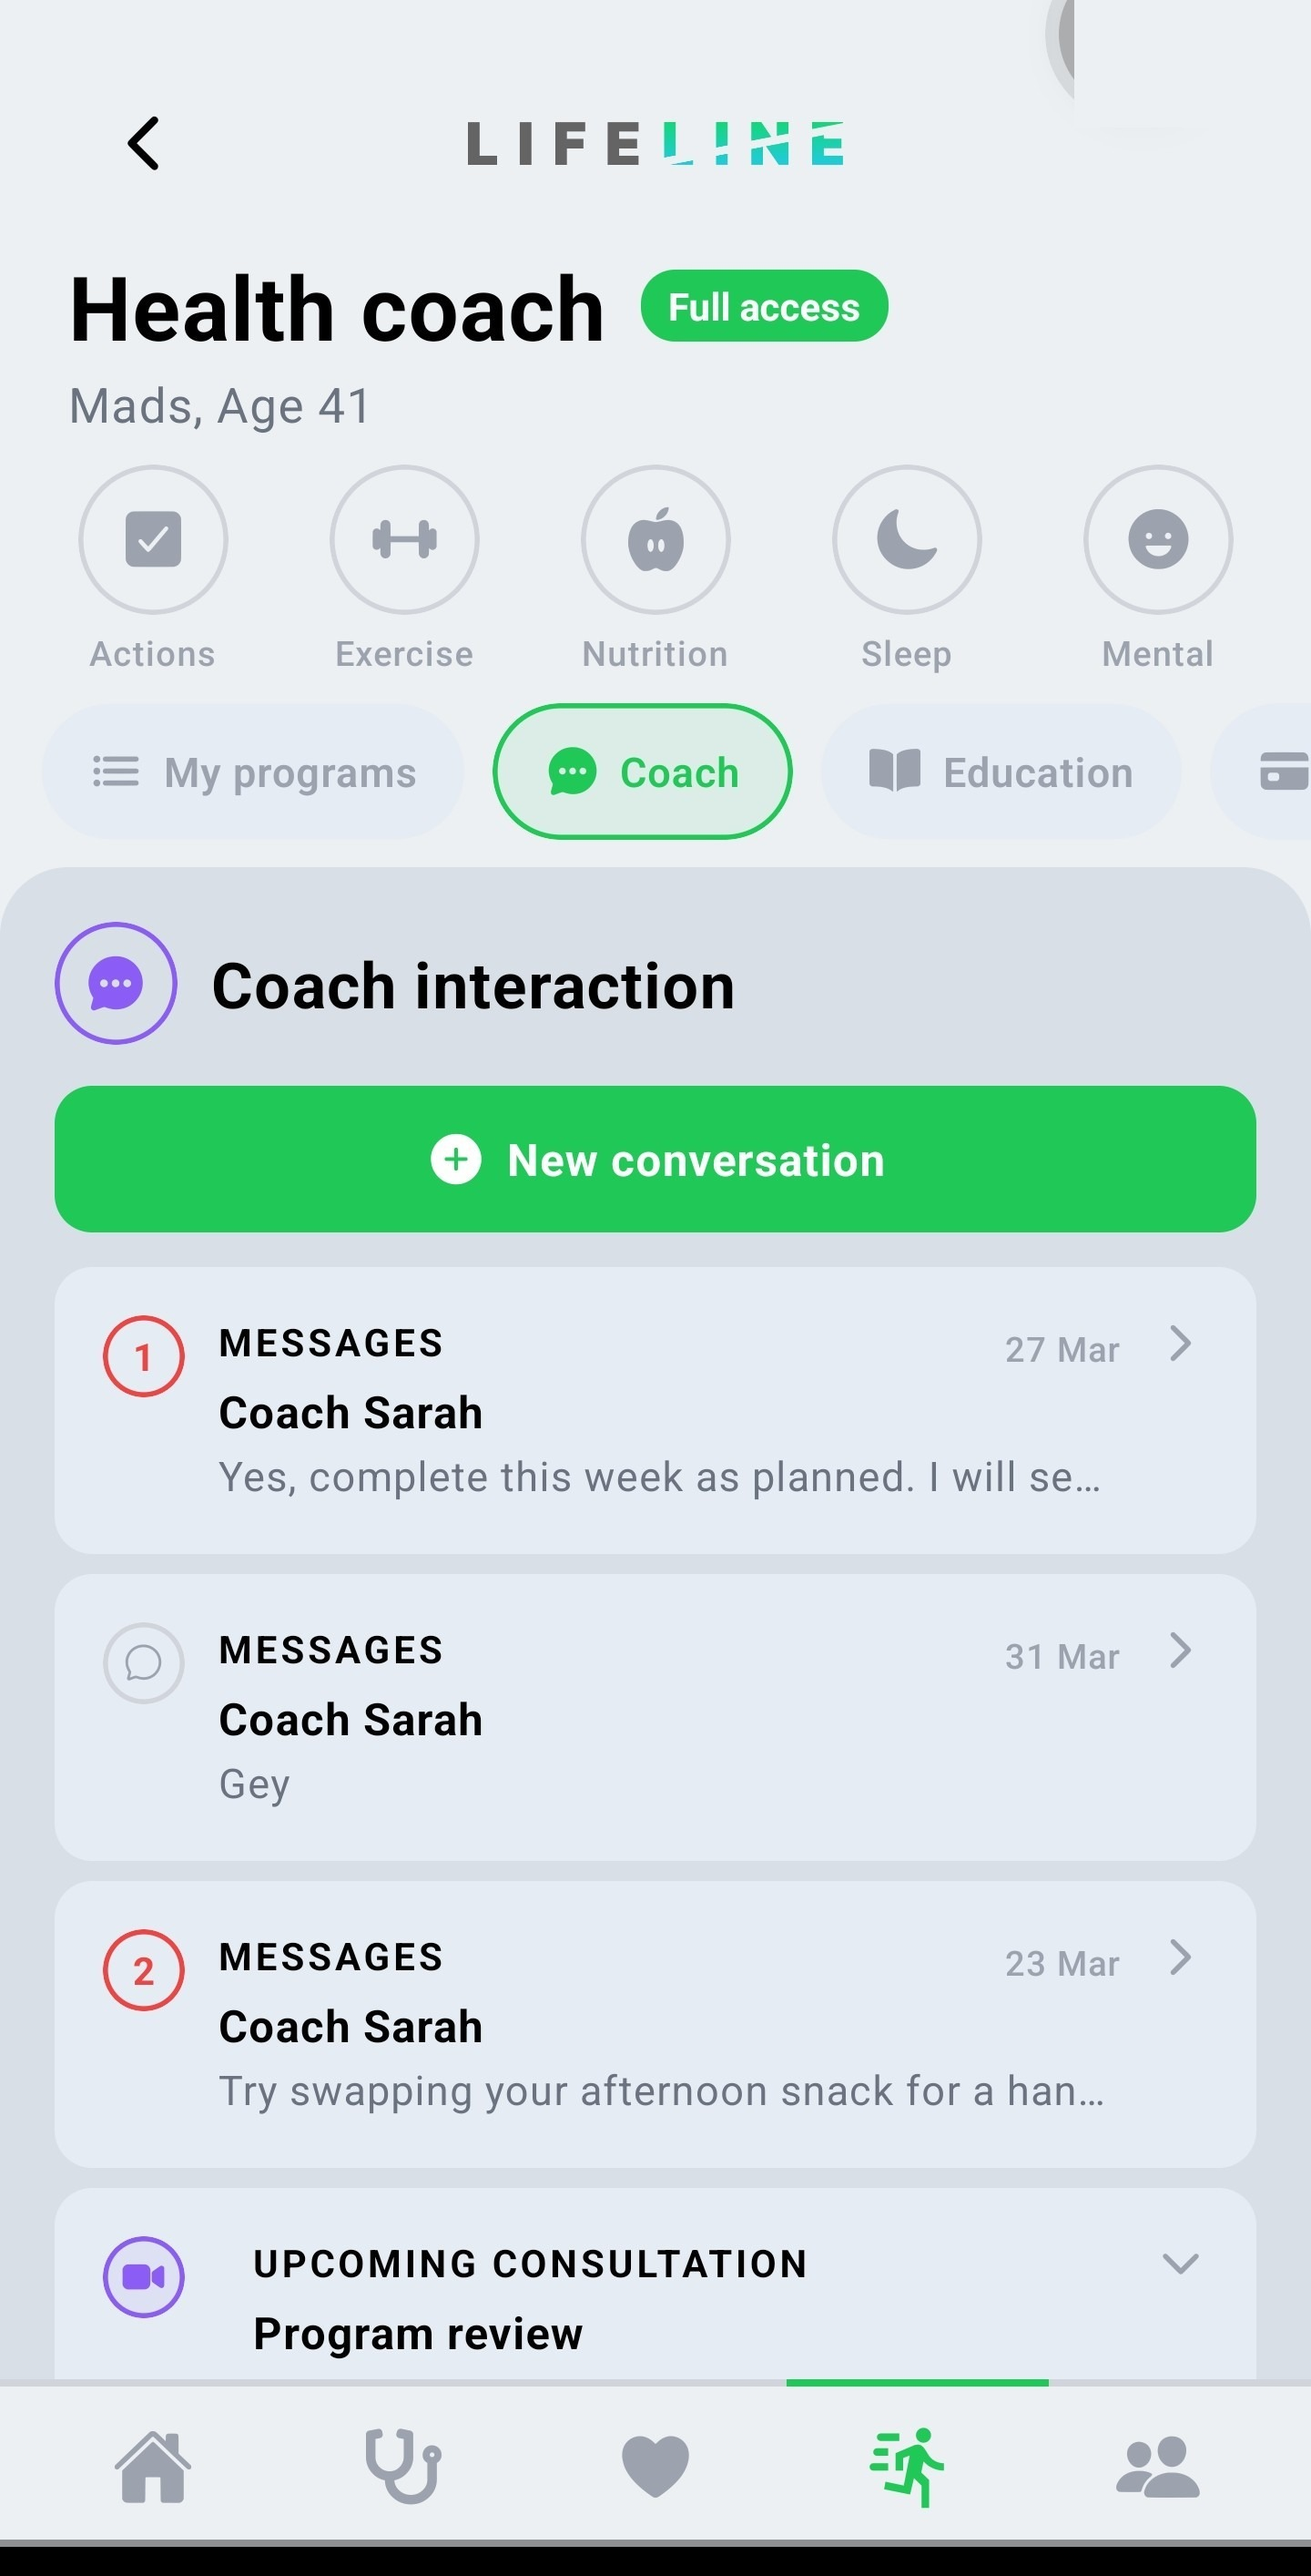
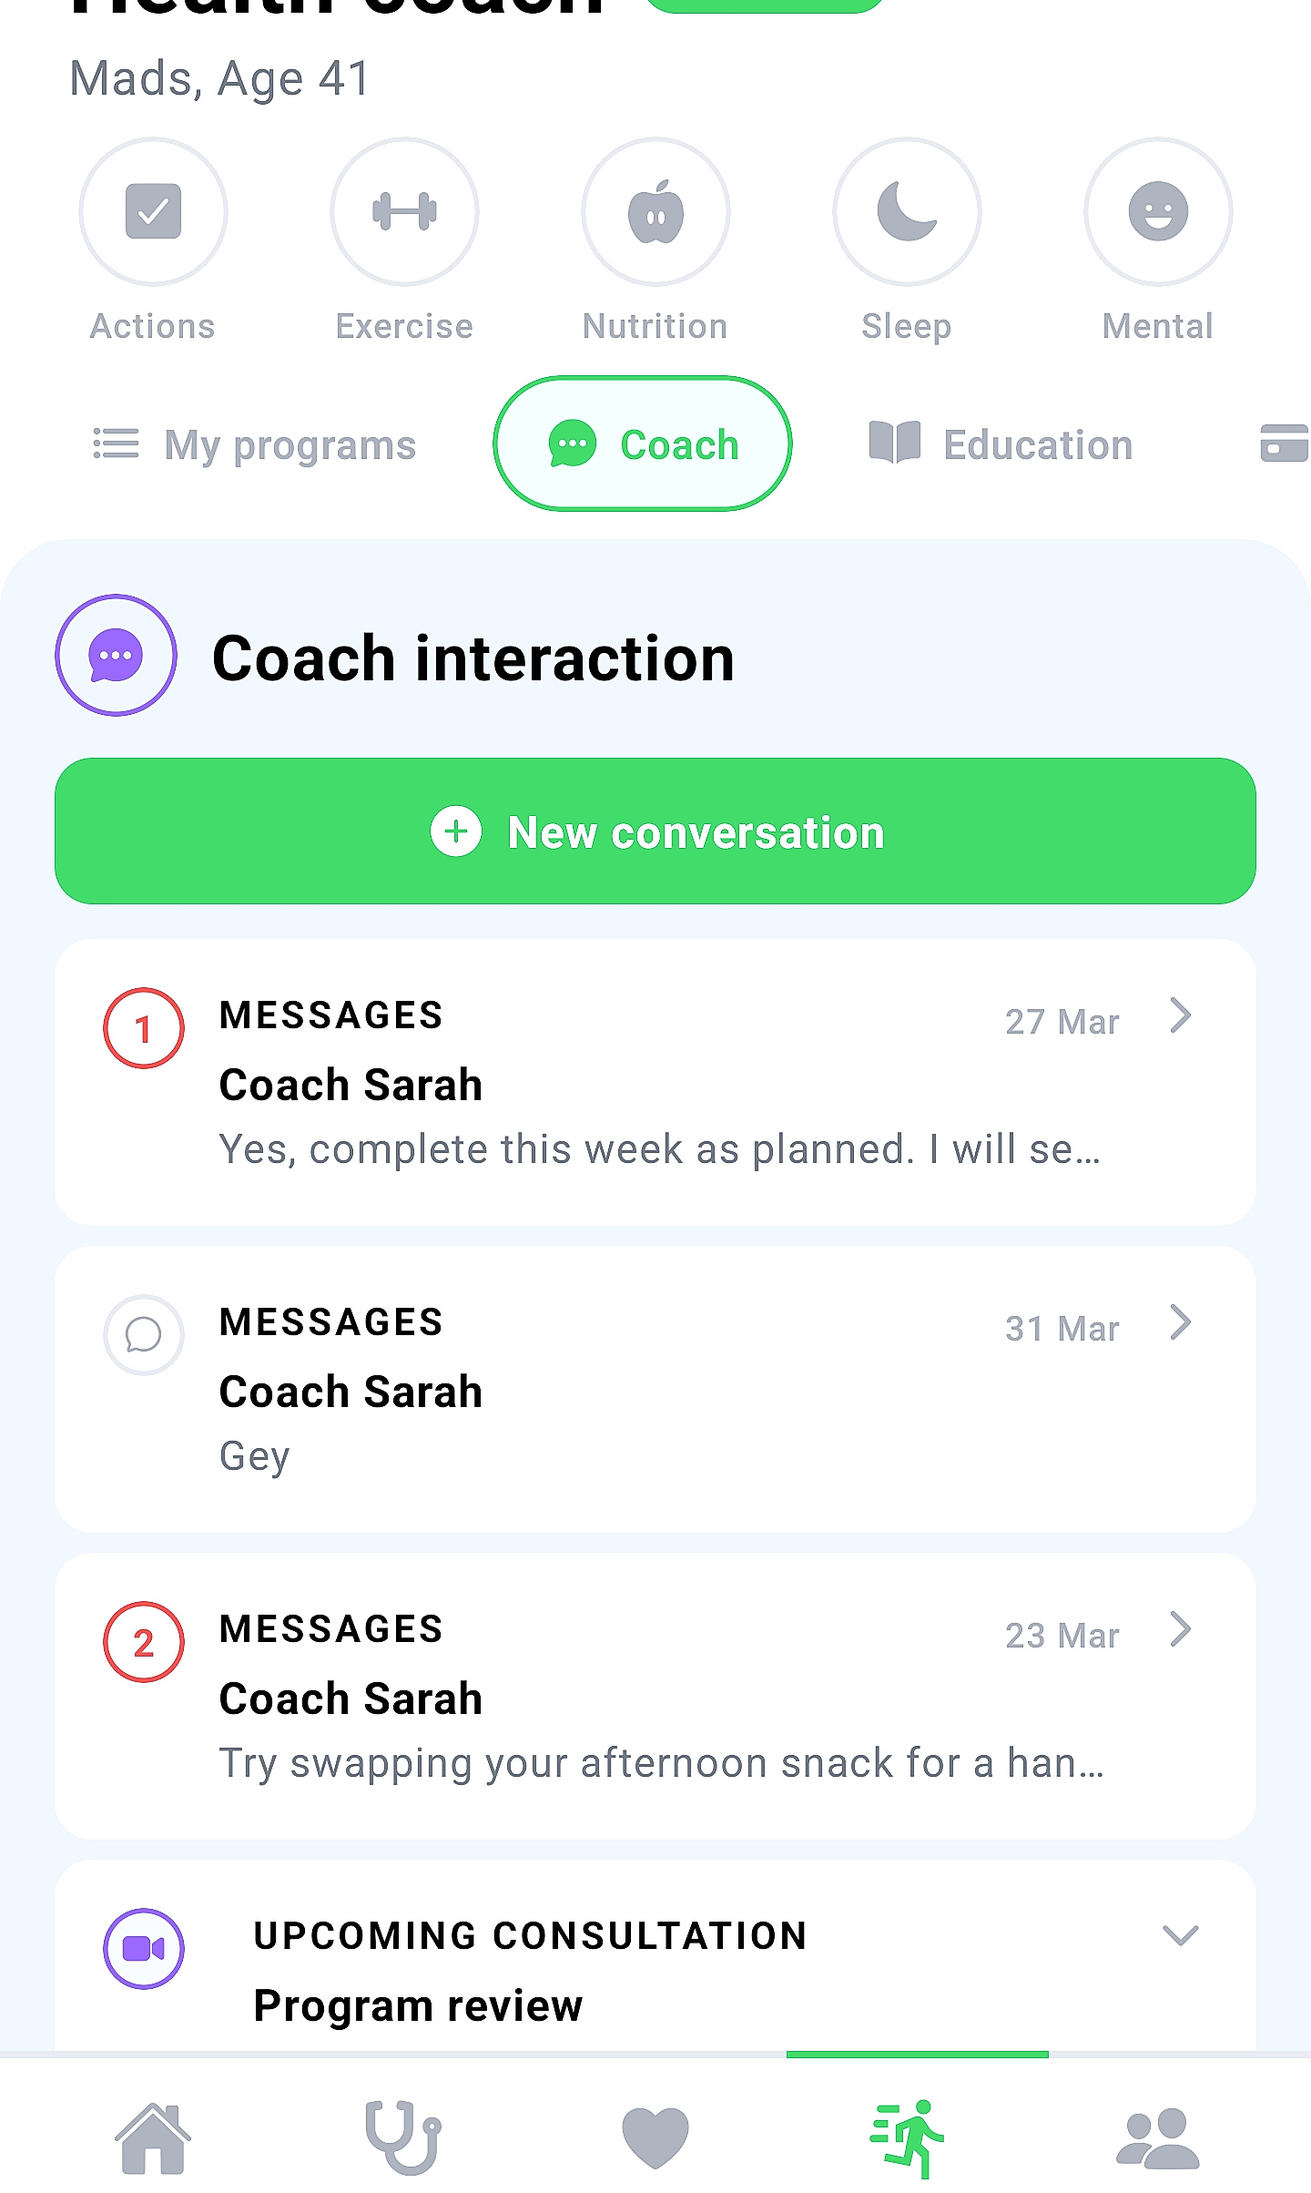
Bigger half-phone mockups, clean screenshots, no Dynamic Island
- Much larger phone frames (320px max-width, 9:14 aspect ratio)
- Reprocessed all screenshots: cropped below app header (removes gear icon
  completely), 10% brightness boost, sharper, 96% JPEG quality
- Removed Dynamic Island notch from all mockups
- Larger text labels underneath

diff --git a/src/app/page.tsx b/src/app/page.tsx
@@ -416,24 +416,21 @@ export default function Home() {
           </div>
 
           {/* Three half-phone mockups */}
-          <div className="mt-16 grid grid-cols-1 sm:grid-cols-3 gap-6 max-w-5xl mx-auto">
+          <div className="mt-20 grid grid-cols-1 sm:grid-cols-3 gap-8 lg:gap-10 max-w-6xl mx-auto">
             {[
               { src: "/app-screenshot-home.jpg", label: "Daily action plans", sublabel: "Personalised tasks every day" },
               { src: "/app-screenshot-coach.jpg", label: "Coach interaction", sublabel: "Direct messaging with your coach" },
               { src: "/app-screenshot-measurements.jpg", label: "Health measurements", sublabel: "Track your progress over time" },
             ].map((phone) => (
               <div key={phone.label} className="flex flex-col items-center">
-                {/* Half phone frame */}
-                <div className="relative w-[220px] h-[380px] overflow-hidden">
+                {/* Half phone frame — large */}
+                <div className="relative w-full max-w-[320px] aspect-[9/14] overflow-hidden">
                   {/* Phone frame */}
-                  <div className="absolute inset-0 bg-[#1a1a1a] rounded-t-[2.5rem] border-x border-t border-[#333]" />
+                  <div className="absolute inset-0 bg-[#1a1a1a] rounded-t-[2.8rem] border-x-[3px] border-t-[3px] border-[#2a2a2a]" />
                   {/* Inner bezel */}
-                  <div className="absolute inset-[3px] bg-[#111] rounded-t-[2.35rem]" />
+                  <div className="absolute inset-[4px] bg-[#111] rounded-t-[2.6rem]" />
                   {/* Screen */}
-                  <div className="absolute inset-[4px] rounded-t-[2.3rem] overflow-hidden bg-[#ecf0f3]">
-                    {/* Dynamic Island */}
-                    <div className="absolute top-2 left-1/2 -translate-x-1/2 w-20 h-[18px] bg-black rounded-full z-20" />
-                    {/* Screenshot */}
+                  <div className="absolute inset-[6px] rounded-t-[2.4rem] overflow-hidden bg-[#ecf0f3]">
                     <img
                       src={phone.src}
                       alt={phone.label}
@@ -441,13 +438,14 @@ export default function Home() {
                     />
                   </div>
                   {/* Side buttons */}
-                  <div className="absolute -right-[2px] top-24 w-[3px] h-10 bg-[#333] rounded-r-sm" />
-                  <div className="absolute -left-[2px] top-20 w-[3px] h-6 bg-[#333] rounded-l-sm" />
+                  <div className="absolute -right-[2px] top-[30%] w-[3px] h-12 bg-[#333] rounded-r-sm" />
+                  <div className="absolute -left-[2px] top-[25%] w-[3px] h-8 bg-[#333] rounded-l-sm" />
+                  <div className="absolute -left-[2px] top-[40%] w-[3px] h-8 bg-[#333] rounded-l-sm" />
                   {/* Bottom fade */}
-                  <div className="absolute bottom-0 left-[4px] right-[4px] h-20 bg-gradient-to-t from-[#1a1a1a] to-transparent z-10" />
+                  <div className="absolute bottom-0 left-[6px] right-[6px] h-24 bg-gradient-to-t from-[#1a1a1a] to-transparent z-10" />
                 </div>
-                <h4 className="text-sm font-semibold text-[#1F2937] mt-4">{phone.label}</h4>
-                <p className="text-xs text-[#6B7280] mt-0.5">{phone.sublabel}</p>
+                <h4 className="text-base font-semibold text-[#1F2937] mt-5">{phone.label}</h4>
+                <p className="text-sm text-[#6B7280] mt-1">{phone.sublabel}</p>
               </div>
             ))}
           </div>

diff --git a/src/app/components/PhoneMockup.tsx b/src/app/components/PhoneMockup.tsx
@@ -19,18 +19,7 @@ export function PhoneMockup({
       <div className="absolute inset-[3px] bg-[#111] rounded-[2.85rem]" />
       {/* Screen with real screenshot */}
       <div className="absolute inset-[4px] rounded-[2.8rem] overflow-hidden bg-[#ecf0f3]">
-        {/* Subtle reflection */}
-        <div
-          className="absolute inset-0 z-30 pointer-events-none"
-          style={{
-            background: "linear-gradient(135deg, rgba(255,255,255,0.08) 0%, transparent 40%, transparent 60%, rgba(255,255,255,0.03) 100%)",
-          }}
-        />
-        {/* Dynamic Island */}
-        <div className="absolute top-2 left-1/2 -translate-x-1/2 w-24 h-[22px] bg-black rounded-full z-20 flex items-center justify-center">
-          <div className="w-2.5 h-2.5 rounded-full bg-[#1a1a1a] border border-[#333] ml-6" />
-        </div>
-        {/* Screenshot - shifted left to clip settings icon */}
+        {/* Screenshot */}
         <Image
           src={screenshot}
           alt={alt}
